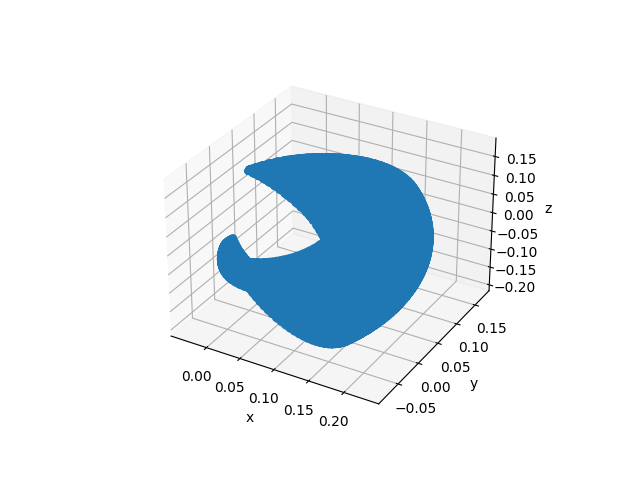
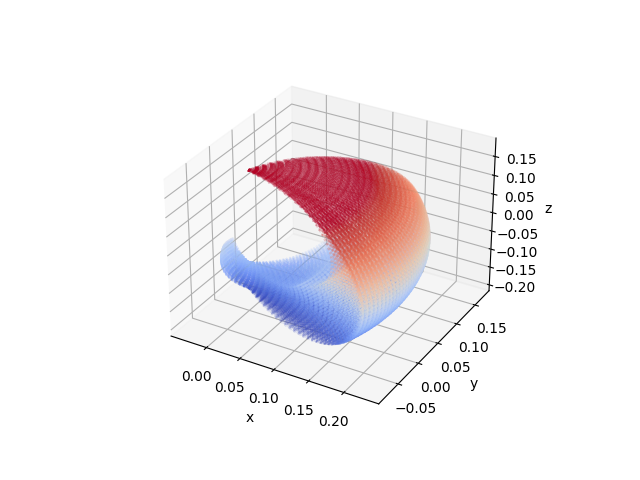
better plots

Changed region(s): [[0.3125, 0.3125, 0.6875, 0.75]]

diff --git a/catkin_ws/devel/lib/morf_ik/neural_networks/plot_all_data_cube.py b/catkin_ws/devel/lib/morf_ik/neural_networks/plot_all_data_cube.py
@@ -4,6 +4,7 @@ from mpl_toolkits import mplot3d
 import csv
 import os.path
 from os import path
+from matplotlib import cm
 
 
 filepath = "./devel/lib/morf_ik/neural_networks/data_4div_direct/"
@@ -13,6 +14,7 @@ div=4
 x = []
 y = []
 z = []
+c = []
 
 x_aux = []
 y_aux = []
@@ -39,6 +41,7 @@ for j in range(div):
                         x.append(float(row[0]))
                         y.append(float(row[1]))
                         z.append(float(row[2]))
+                        c.append(float(row[2])*1.5)
                         
                     i+=1
 
@@ -112,22 +115,23 @@ for i in range(div+1):
 
 fig = plt.figure()
 ax = plt.axes(projection='3d')
-ax.scatter(x, y, z, alpha=0.01)
+# ax.scatter(x, y, z, alpha=0.01)
+plt.tricontourf(x, y, z, 20, vmin=0, vmax=0.15, cmap=cm.coolwarm)
+# ax.scatter(x, y, z, c=c, vmin = -0.05, vmax =0.15, cmap=cm.coolwarm, s=0.003)
 # ax.scatter(x_aux, y_aux, z_aux, color='green', alpha=0.01)
-# ax.plot_surface(xx, yy, zz)
 
 
 for i in range(div+1):
     for j in range(div+1):
-        ax.plot(x1[i][j], y1[i][j], z1[i], 'k', linewidth=0.8)
+        ax.plot(x1[i][j], y1[i][j], z1[i], 'k', linewidth=0.8,zorder=100)
 
 for i in range(div+1):
     for j in range(div+1):
-        ax.plot(x2[i], y2[i][j], z2[i][j], 'k', linewidth=0.8)
+        ax.plot(x2[i], y2[i][j], z2[i][j], 'k', linewidth=0.8,zorder=100)
 
 for i in range(div+1):
     for j in range(div+1):
-        ax.plot(x3[i][j], y3[i], z3[i][j], 'k', linewidth=0.8)
+        ax.plot(x3[i][j], y3[i], z3[i][j], 'k', linewidth=0.8,zorder=100)
 
 ax.set_xlabel('x')
 ax.set_ylabel('y')

diff --git a/catkin_ws/devel/lib/morf_ik/neural_networks/plot_all_data.py b/catkin_ws/devel/lib/morf_ik/neural_networks/plot_all_data.py
@@ -4,6 +4,8 @@ from mpl_toolkits import mplot3d
 import csv
 import os.path
 from os import path
+from matplotlib import cm
+import matplotlib.tri as mtri 
 
 
 filepath = "./devel/lib/morf_ik/neural_networks/data_4div_direct/"
@@ -13,6 +15,7 @@ div=4
 x = []
 y = []
 z = []
+c = []
 
 for j in range(div):
     for k in range(div):
@@ -30,6 +33,7 @@ for j in range(div):
                         x.append(float(row[0]))
                         y.append(float(row[1]))
                         z.append(float(row[2]))
+                        c.append(float(row[2])*1.5)
                         
                     i+=1
 
@@ -41,13 +45,12 @@ for j in range(div):
 #     y.append(float(row[1]))
 #     z.append(float(row[2]))
 
-# xx, yy = np.meshgrid(np.linspace(-0.001, 0.0002), np.linspace(-0.05, 0.25))
-# zz = xx*yy*0-0.05
 
 
 fig = plt.figure()
 ax = plt.axes(projection='3d')
-ax.scatter(x, y, z)
+# ax.scatter(x, y, z, c=c, vmin=-0.05, vmax=0.20, cmap=cm.coolwarm, s=0.1)
+plt.tricontourf(x, y, z, 20, vmin=0, vmax=0.15, cmap=cm.coolwarm)
 # ax.plot_surface(xx, yy, zz)
 ax.set_xlabel('x')
 ax.set_ylabel('y')

diff --git a/catkin_ws/devel/lib/morf_ik/real_data/plot_all_data.py b/catkin_ws/devel/lib/morf_ik/real_data/plot_all_data.py
@@ -4,6 +4,7 @@ from mpl_toolkits import mplot3d
 import csv
 import os.path
 from os import path
+from matplotlib import cm
 
 filepath = "./devel/lib/morf_ik/real_data/"
 filename = "./devel/lib/morf_ik/real_data/input.data"
@@ -14,6 +15,7 @@ filename = "./devel/lib/morf_ik/real_data/input.data"
 x = []
 y = []
 z = []
+c = []
 
 # for j in range(div):
 #     for k in range(div):
@@ -42,6 +44,7 @@ for row in data:
     x.append(float(row[0]))
     y.append(float(row[1]))
     z.append(float(row[2]))
+    c.append(float(row[2])*1.5)
 
 # xx, yy = np.meshgrid(np.linspace(-0.001, 0.0002), np.linspace(-0.05, 0.25))
 # zz = xx*yy*0-0.05
@@ -49,7 +52,7 @@ for row in data:
 
 fig = plt.figure()
 ax = plt.axes(projection='3d')
-ax.scatter(x, y, z)
+ax.scatter(x, y, z, c=c, vmin = -0.25, vmax =0.20, cmap=cm.coolwarm, s=0.005)
 # ax.plot_surface(xx, yy, zz)
 ax.set_xlabel('x')
 ax.set_ylabel('y')

diff --git a/catkin_ws/devel/lib/morf_ik/babbling_data/plot_all_data.py b/catkin_ws/devel/lib/morf_ik/babbling_data/plot_all_data.py
@@ -4,6 +4,7 @@ from mpl_toolkits import mplot3d
 import csv
 import os.path
 from os import path
+from matplotlib import cm
 
 filepath = "./devel/lib/morf_ik/babbling_data/"
 filename = "./devel/lib/morf_ik/babbling_data/input.data"
@@ -14,6 +15,7 @@ filename = "./devel/lib/morf_ik/babbling_data/input.data"
 x = []
 y = []
 z = []
+c = []
 
 # for j in range(div):
 #     for k in range(div):
@@ -42,14 +44,17 @@ for row in data:
     x.append(float(row[0]))
     y.append(float(row[1]))
     z.append(float(row[2]))
+    c.append(float(row[2])*1.5)
 
 # xx, yy = np.meshgrid(np.linspace(-0.001, 0.0002), np.linspace(-0.05, 0.25))
 # zz = xx*yy*0-0.05
 
 
+
+
 fig = plt.figure()
 ax = plt.axes(projection='3d')
-ax.scatter(x, y, z)
+ax.scatter(x, y, z, c=c, vmin = -0.25, vmax =0.20, cmap=cm.coolwarm, s=0.005)
 # ax.plot_surface(xx, yy, zz)
 ax.set_xlabel('x')
 ax.set_ylabel('y')
